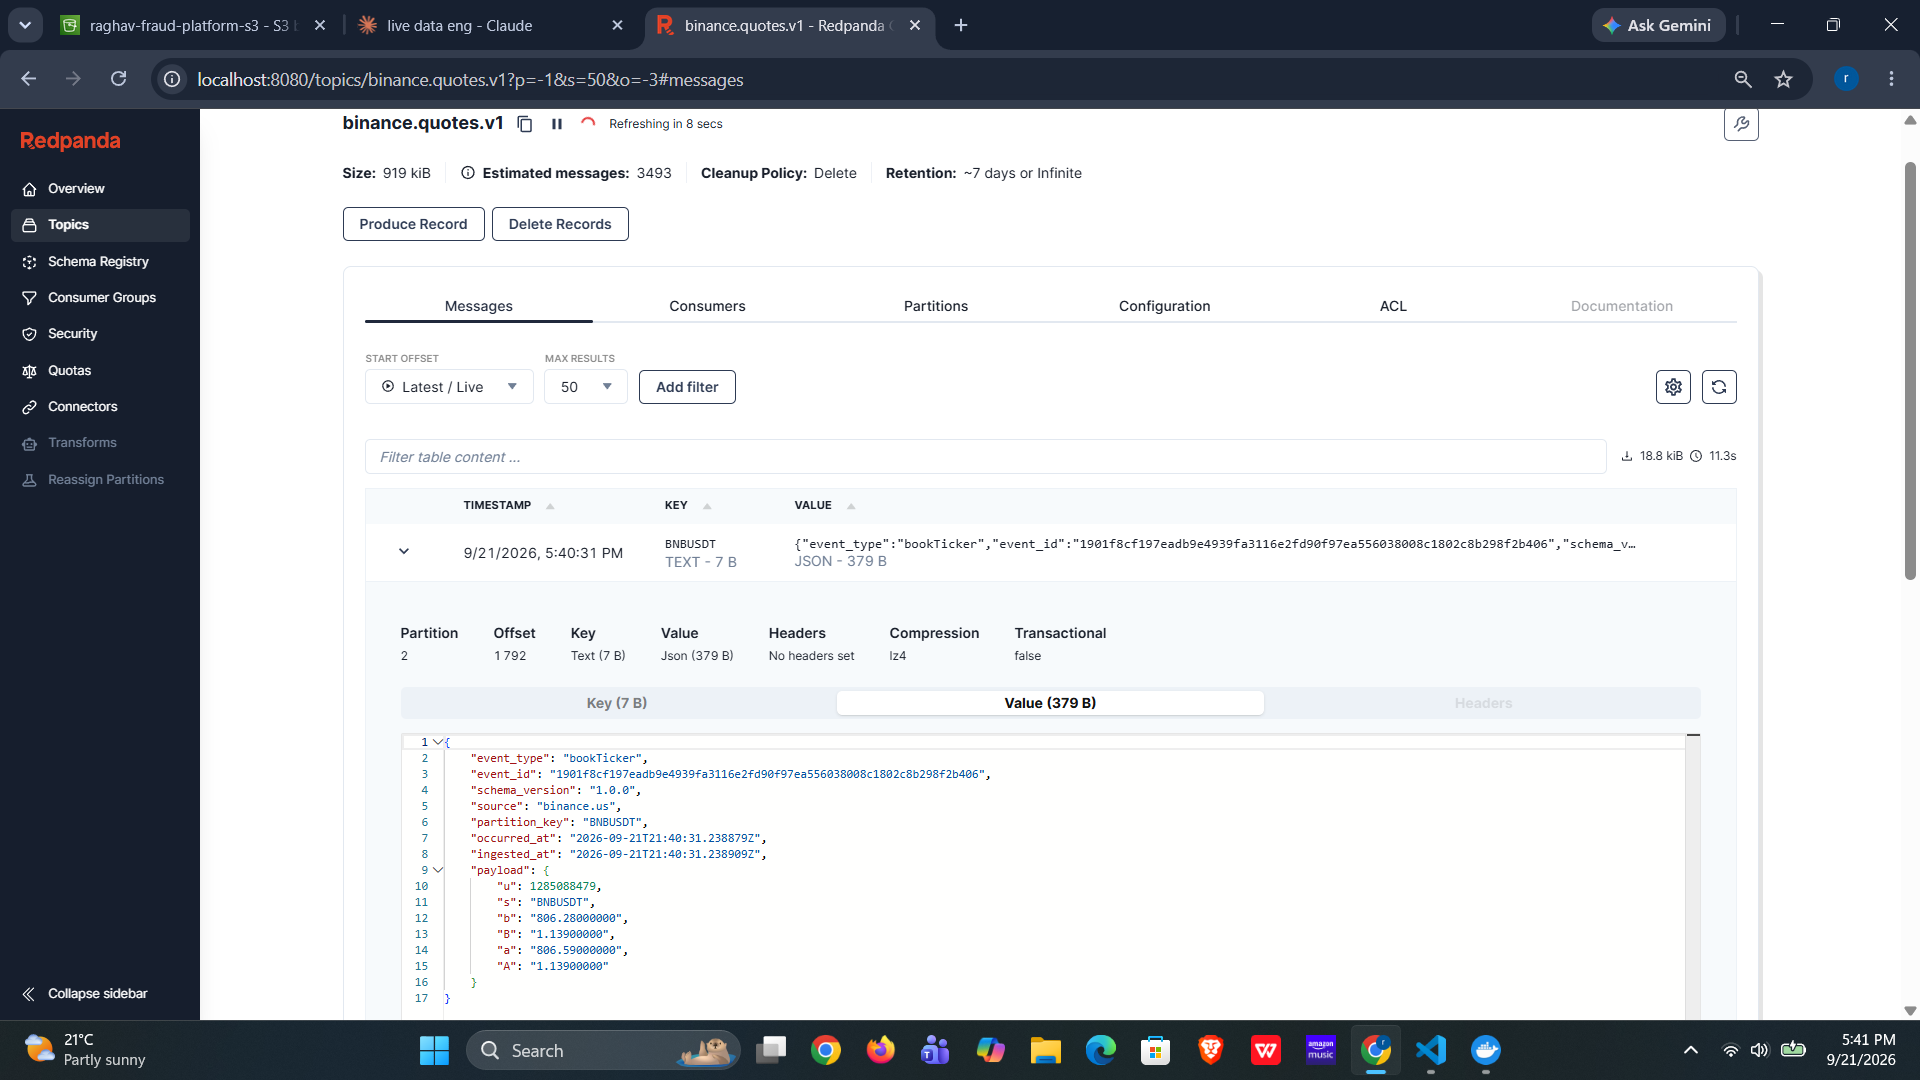
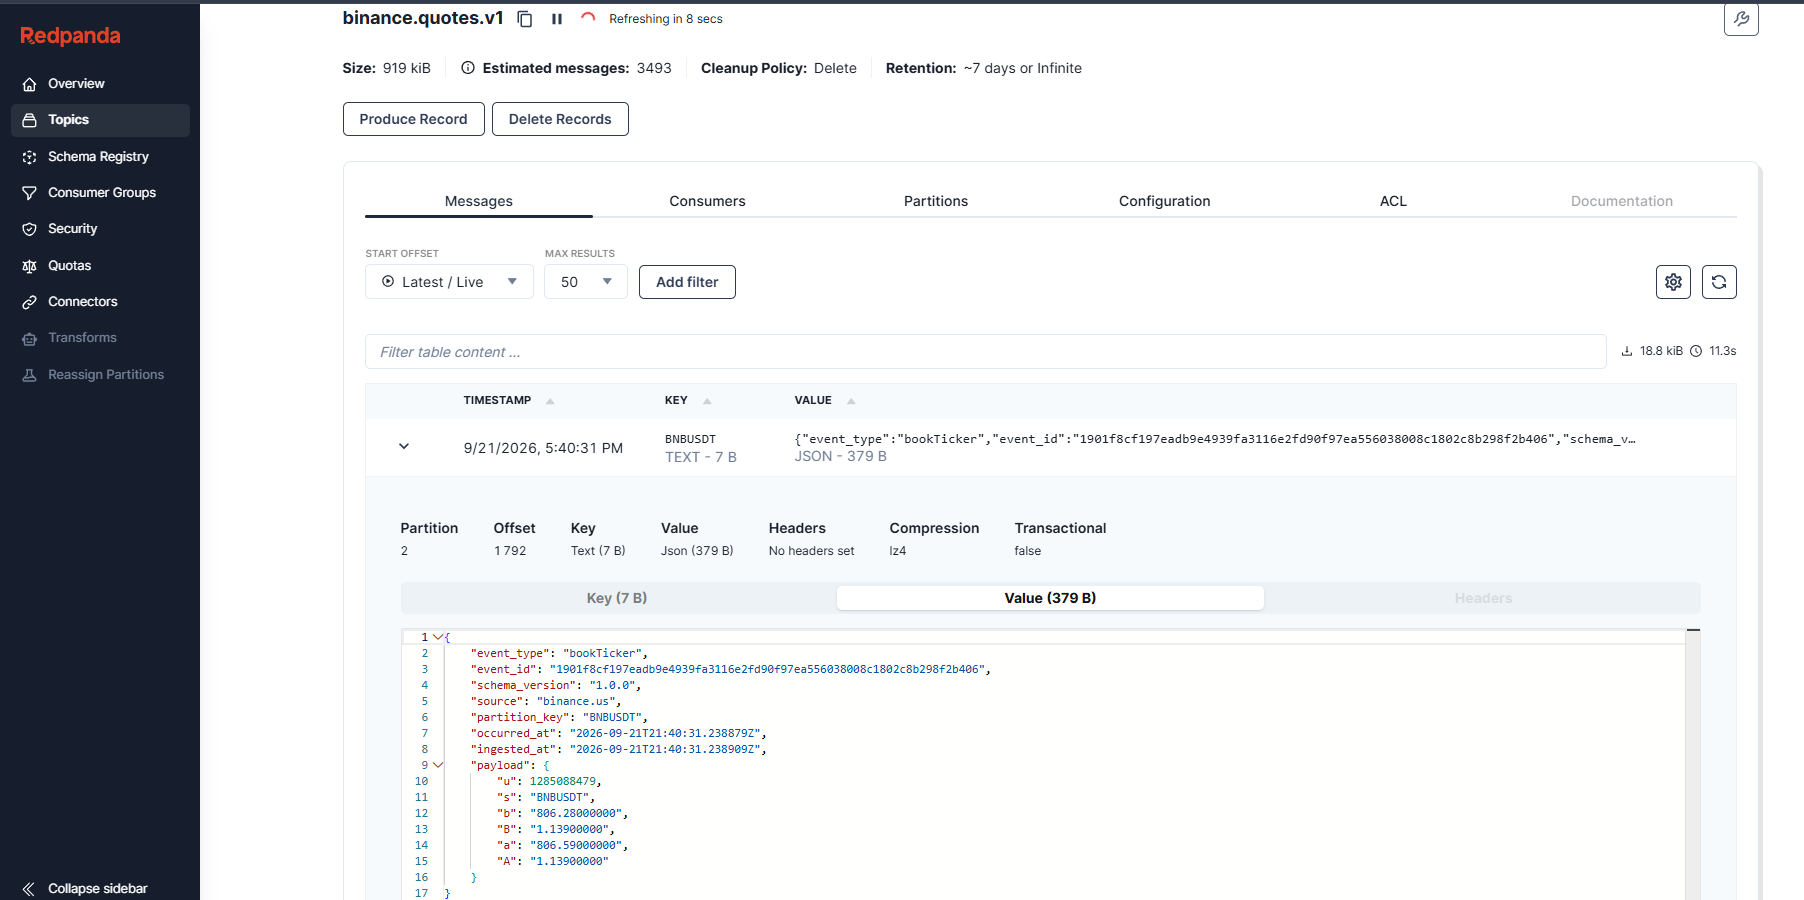
s3-silver to s3-gold layer, aggregated-data is integrated

diff --git a/src/spark/gold.py b/src/spark/gold.py
@@ -1,0 +1,134 @@
+from __future__ import annotations
+
+import logging
+
+from pyspark.sql import SparkSession
+from pyspark.sql import functions as F
+from pyspark.sql import types as T
+
+from config.settings import get_settings
+from src.spark.session import get_spark_session
+
+
+logger = logging.getLogger(__name__)
+
+SILVER_TRADES_SCHEMA = T.StructType([
+    T.StructField("event_id", T.StringType()),
+    T.StructField("schema_version", T.StringType()),
+    T.StructField("source", T.StringType()),
+    T.StructField("symbol", T.StringType()),
+    T.StructField("occurred_at", T.TimestampType()),
+    T.StructField("ingested_at", T.TimestampType()),
+    T.StructField("agg_trade_id", T.LongType()),
+    T.StructField("raw_symbol", T.StringType()),
+    T.StructField("price", T.DecimalType(18, 8)),
+    T.StructField("quantity", T.DecimalType(18, 8)),
+    T.StructField("notional", T.DecimalType(37, 16)),
+    T.StructField("trade_time_ms", T.LongType()),
+    T.StructField("is_buyer_maker", T.BooleanType()),
+    T.StructField("trade_time", T.TimestampType()),
+    T.StructField("date", T.DateType()),
+    T.StructField("hour", T.IntegerType()),
+])
+
+def run_gold(spark: SparkSession, settings)->None:
+    trades = (
+        spark.readStream.format("parquet")
+        .option("path", f"{settings.silver_path}/trades")
+        .schema(SILVER_TRADES_SCHEMA)
+        .load()
+    )
+
+    # 1. Per-symbol volume summary — 1 minute windows
+    # Used by: velocity checks, amount anomaly detection
+
+    volume_agg = (
+        trades
+        .withWatermark("occurred_at", "5 minutes")
+        .groupBy(
+            F.window(F.col("occurred_at"), "1 minute"),
+            F.col("symbol"),
+        )
+        .agg(
+            F.count("*").alias("trade_count"),
+            F.sum(F.col("notional")).alias("total_notional"),
+            F.avg(F.col("notional")).alias("avg_notional"),
+            F.max(F.col("notional")).alias("max_notional"),
+            F.avg(F.col("price")).alias("vwap"),
+        )
+        .select(
+            F.col("window.start").alias("window_start"),
+            F.col("window.end").alias("window_end"),
+            F.col("symbol"),
+            F.col("trade_count"),
+            F.col("total_notional"),
+            F.col("avg_notional"),
+            F.col("max_notional"),
+            F.col("vwap"),
+            F.date_format(F.col("window.start"), "yyyy-MM-dd").alias("date"),
+            F.date_format(F.col("window.start"), "HH").alias("hour"),
+        )
+    )
+
+    # 2. Buyer/seller imbalance — feeds pattern detection
+
+    side_agg = (
+        trades
+        .withWatermark("occurred_at", "5 minutes")
+        .groupBy(
+            F.window("occurred_at", "1 minute"),
+            F.col("symbol"),
+            F.col("is_buyer_maker"),
+        )
+        .agg(
+            F.count("*").alias("trade_count"),
+            F.sum("notional").alias("total_notional"),
+        )
+        .select(
+            F.col("window.start").alias("window_start"),
+            F.col("symbol"),
+            F.col("is_buyer_maker"),
+            F.col("trade_count"),
+            F.col("total_notional"),
+            F.date_format(F.col("window.start"), "yyyy-MM-dd").alias("date"),
+            F.date_format(F.col("window.start"), "HH").alias("hour"),
+        )
+    )
+
+    volume_query = (
+        volume_agg.writeStream
+        .format("parquet")
+        .outputMode("append")
+        .option("path", f"{settings.gold_path}/volume_1m")
+        .option("checkpointLocation",
+                f"{settings.gold_path}/_checkpoints/volume_1m")
+        .partitionBy("date","hour")
+        .trigger(processingTime="60 seconds")
+        .start()
+    )
+
+    side_query = (
+        side_agg.writeStream
+        .format("parquet")
+        .option("path", f"{settings.gold_path}/side_imbalance_1m")
+        .option("checkpointLocation",
+                f"{settings.gold_path}/_checkpoints/side_imbalance_1m")
+        .partitionBy("date", "hour")
+        .trigger(processingTime="60 seconds")
+        .start()
+    )
+
+    logger.info(
+        "gold streams started",
+        extra={
+            "volume_path": f"{settings.gold_path}/volume_1m",
+            "side_path": f"{settings.gold_path}/side_imbalance_1m",
+        },
+    )
+
+    spark.streams.awaitAnyTermination()
+
+if __name__ == "__main__":
+    settings = get_settings()
+    spark = get_spark_session("gold-aggregate", settings=settings)
+    run_gold(spark, settings)
